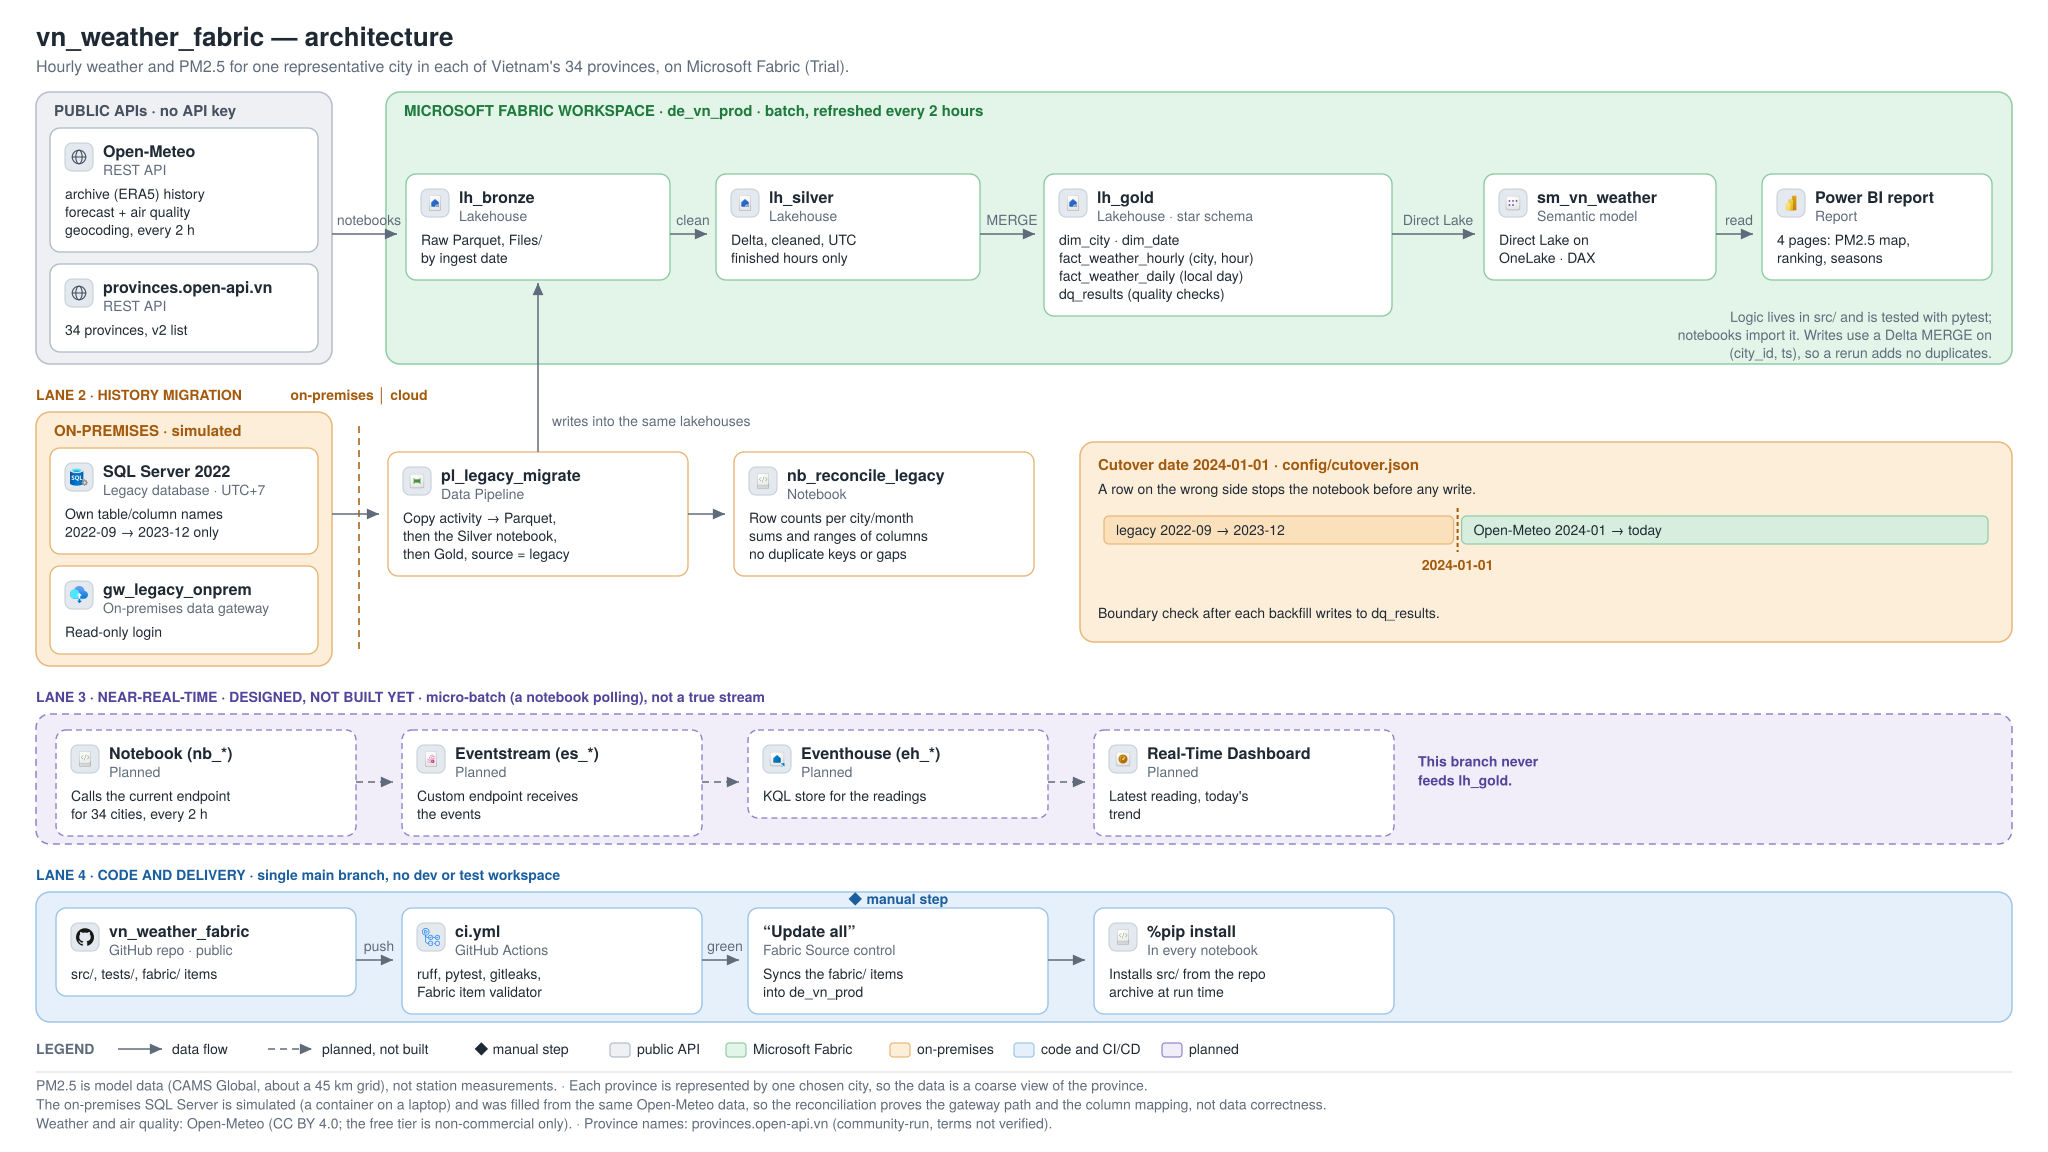
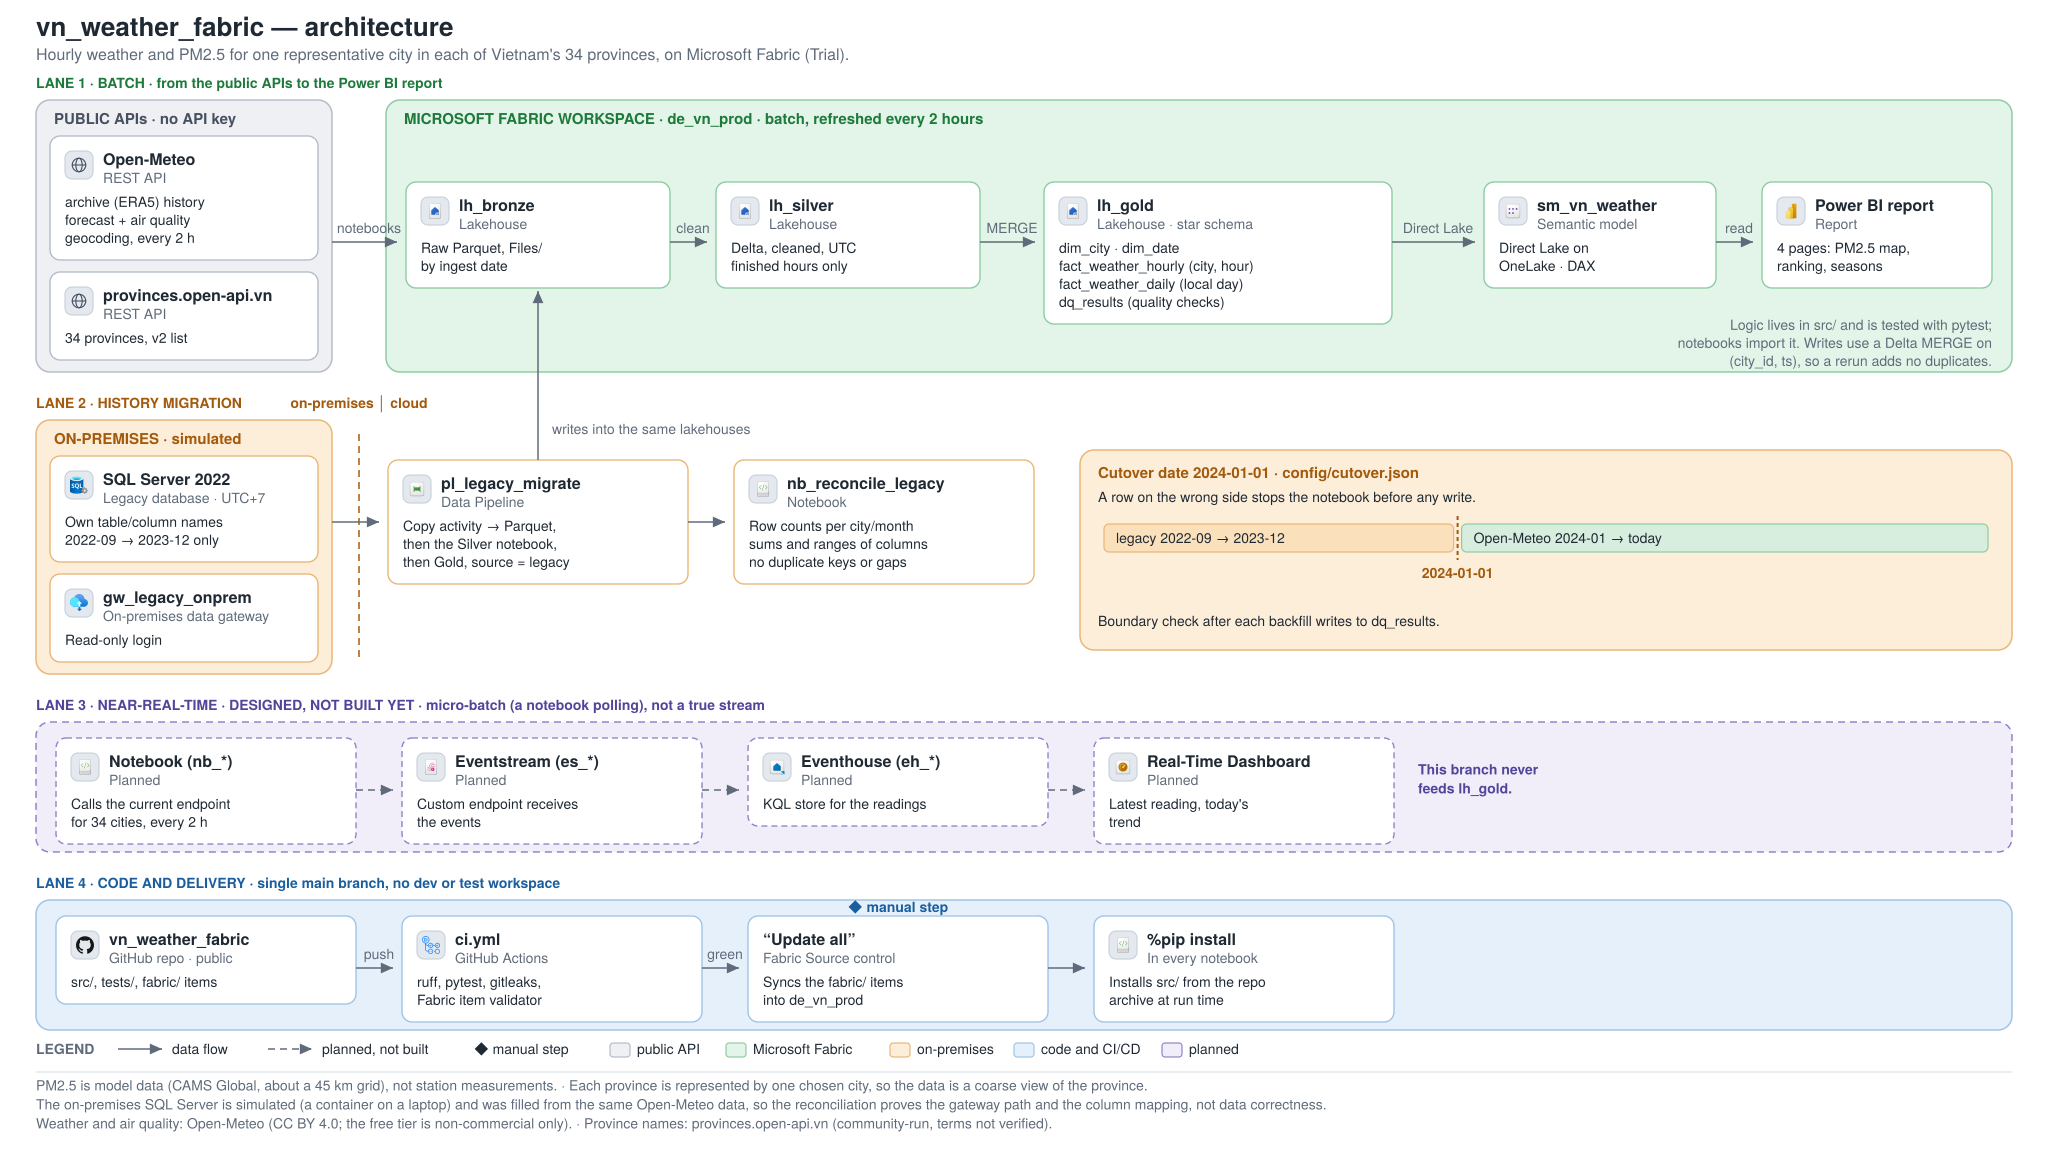
Refactor code structure for improved readability and maintainability

diff --git a/README.md b/README.md
@@ -9,7 +9,7 @@ This is a Data Engineer portfolio project. It runs on a Fabric Trial capacity.
 - Done: city config and geocoding, Bronze to Gold load for one city and one week (tracer), idempotent merge, CI
 - Written: the 34-city Backfill notebook (`nb_backfill`, which builds `dim_city`), the daily refresh (`nb_daily_refresh`, `pl_daily_refresh`) and the data quality checks (`src/quality.py`)
 - Daily aggregate: `nb_daily_aggregate` builds `fact_weather_daily` (one row per City and local day) and `dim_date` (with a dry/wet `season` column); `fact_weather_daily` has data in Fabric
-- Power BI: the Direct Lake on OneLake semantic model `sm_vn_weather` (relationships, season, DAX measures) and a four-page report (PM2.5 map, PM2.5 by City and season, weather vs PM2.5, City ranking, with an "Insights and recommendations" section) are done
+- Power BI: the Direct Lake on OneLake semantic model `sm_vn_weather` (relationships, season, DAX measures) and a four-page report (PM2.5 map, PM2.5 by City and season, weather vs PM2.5, City ranking, with an "Insights and recommendations" section) are done; a screenshot is in [`docs/powerbi-report.png`](docs/powerbi-report.png) and is shown under [Power BI report](#power-bi-report)
 - Planned: near-real-time branch and dashboard (World Bank yearly indicators were dropped)
 
 The agreed design is in [`docs/DESIGN.md`](docs/DESIGN.md); domain terms are in [`GLOSSARY.md`](GLOSSARY.md).
@@ -26,6 +26,12 @@ If your viewer does not render SVG, use [`docs/architecture.png`](docs/architect
 - Days in `fact_weather_daily` are cut on local time and leave out forecast hours; a day is above the PM2.5 threshold when its mean Model PM2.5 is above the `pm2_5_threshold` notebook parameter (default 15 ug/m3, the WHO 24-hour guideline)
 - `dim_date` has a single writer, `nb_daily_aggregate`, which rebuilds it to cover the days in `fact_weather_daily`
 - The report splits the year into a dry season (November to April) and a wet season (May to October); this is a coarse national split, and the real seasons differ by region
+
+## Power BI report
+
+![Power BI report: daily PM2.5 and rainfall across 34 Vietnamese cities, with KPI cards, a per-city ranking and month-by-year trend charts](docs/powerbi-report.png)
+
+Direct Lake on OneLake over `lh_gold`. The year, month and city slicers filter every visual; the KPI cards compare the selected period with the previous year. The 15 ug/m3 line is the WHO 24-hour guideline and the 45 ug/m3 line is the Vietnam limit (QCVN 05:2023/BTNMT, Table 1).
 
 ## On-premises migration
 
